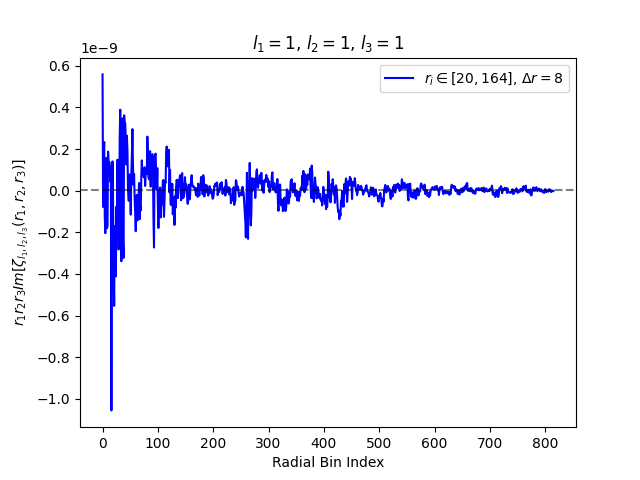
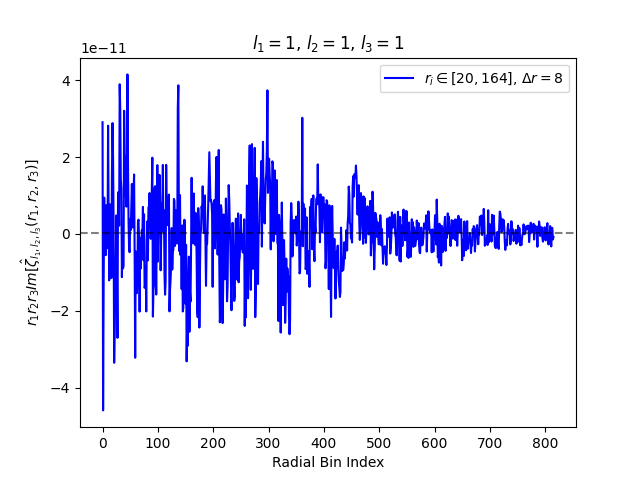
Nice

diff --git a/fourPCF_estimator.py b/fourPCF_estimator.py
@@ -101,21 +101,21 @@ l2 = 1
 l3 = 1
 zeta = []
 
-if choice == 1:
-    for bins in tqdm(radial_bins, desc="Processing bins"):
-        bins_min = np.array(bins)
-        bins_max = bins_min + 14
-        zeta_bin = np.imag(estimator(l1, l2, l3, vertices, bins_min, bins_max, weights))
-        zeta.append(zeta_bin)
-    np.save(f"zeta{l1}{l2}{l3}_test_sample1.npy", zeta)
-elif choice == 2:
-    for bins in tqdm(radial_bins, desc="Processing bins"):
-        bins_min = np.array(bins)
-        bins_max = bins_min + 8
-        zeta_bin = np.imag(estimator(l1, l2, l3, vertices, bins_min, bins_max, weights))
-        zeta.append(zeta_bin)
-    np.save(f"zeta{l1}{l2}{l3}_test_sample2.npy", zeta)
-print(zeta)
+# if choice == 1:
+#     for bins in tqdm(radial_bins, desc="Processing bins"):
+#         bins_min = np.array(bins)
+#         bins_max = bins_min + 14
+#         zeta_bin = np.imag(estimator(l1, l2, l3, vertices, bins_min, bins_max, weights))
+#         zeta.append(zeta_bin)
+#     np.save(f"zeta{l1}{l2}{l3}_test_sample1.npy", zeta)
+# elif choice == 2:
+#     for bins in tqdm(radial_bins, desc="Processing bins"):
+#         bins_min = np.array(bins)
+#         bins_max = bins_min + 8
+#         zeta_bin = np.imag(estimator(l1, l2, l3, vertices, bins_min, bins_max, weights))
+#         zeta.append(zeta_bin)
+#     np.save(f"zeta{l1}{l2}{l3}_test_sample2.npy", zeta)
+# print(zeta)
 
 # zeta = np.load(f"zeta{l1}{l2}{l3}_test_sample{choice}.npy")
 # if choice == 1:
@@ -128,4 +128,18 @@ print(zeta)
 # plt.title(fr"$l_{1}={l1}$, $l_{2}={l2}$, $l_{3}={l3}$")
 # plt.legend(loc="best")
 # plt.savefig(f"Figure/zeta{l1}{l2}{l3}_test_sample{choice}.png")
+# plt.show()
+
+# zeta = np.load(f"zeta{l1}{l2}{l3}_test_sample{choice}.npy")
+# rzeta = [r1 * r2 * r3 * z for ((r1, r2, r3), z) in zip(radial_bins, zeta)]
+# if choice == 1:
+#     plt.plot(np.arange(len(rzeta)), rzeta, color="blue", label=r"$r_{i}\in[20, 160]$, $\Delta r = 14$")
+# elif choice == 2:
+#     plt.plot(np.arange(len(rzeta)), rzeta, color="blue", label=r"$r_{i}\in[20, 164]$, $\Delta r = 8$")
+# plt.xlabel("Radial Bin Index")
+# plt.ylabel(r"$r_{1}r_{2}r_{3}Im[\hat{\zeta}_{l_{1}, l_{2}, l_{3}}(r_{1}, r_{2}, r_{3})]$")
+# plt.axhline(np.mean(rzeta), linestyle="--", color="black", alpha=0.5)
+# plt.title(fr"$l_{1}={l1}$, $l_{2}={l2}$, $l_{3}={l3}$")
+# plt.legend(loc="best")
+# plt.savefig(f"Figure/rzeta{l1}{l2}{l3}_test_sample{choice}.png")
 # plt.show()
